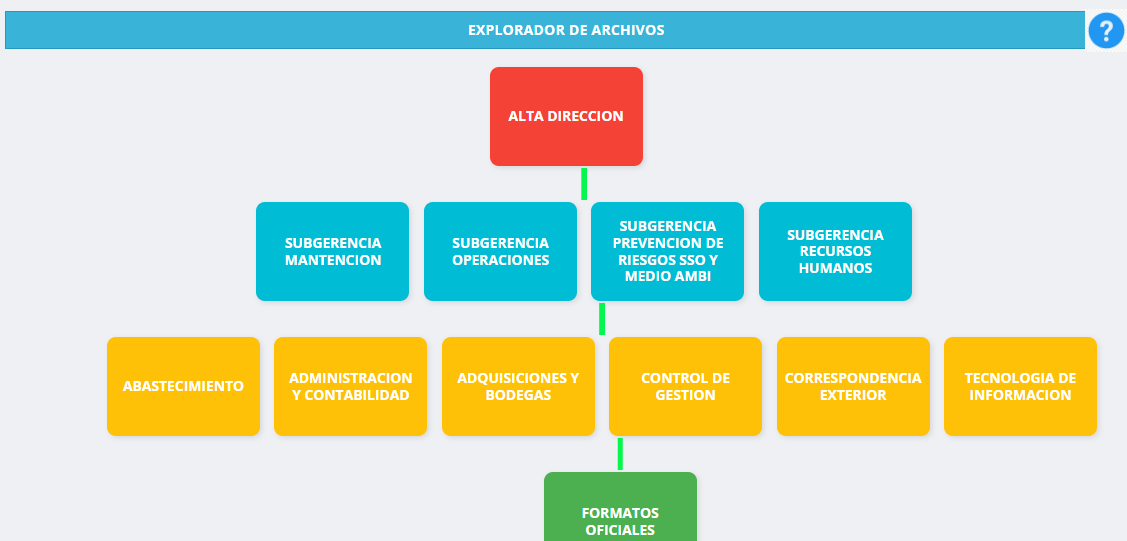
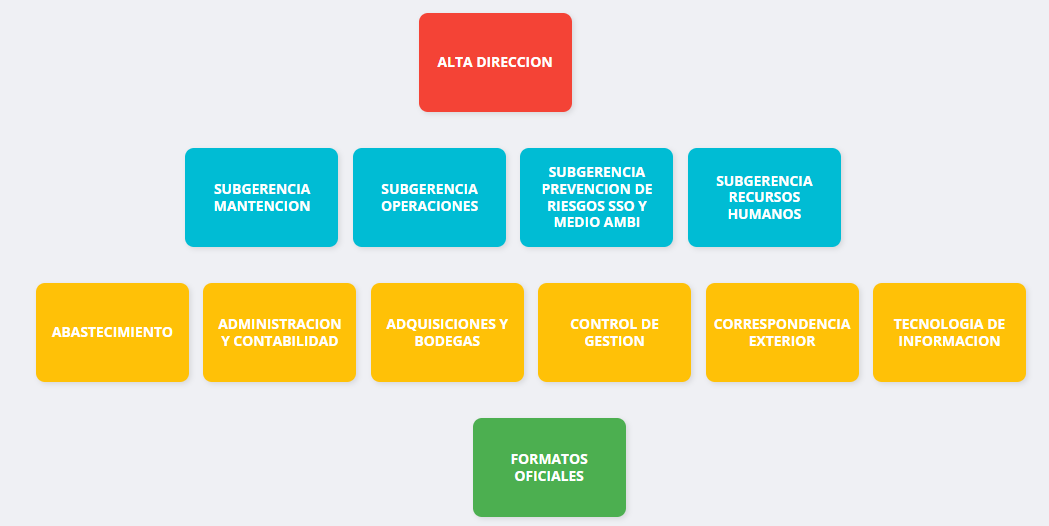
se agregaron datos al modal ayuda

diff --git a/script/infografia.js b/script/infografia.js
@@ -1,46 +1,46 @@
+function abre_modal_ayuda() {
+  $("#ventana_de_ayuda").modal('show');
 
-function abre_modal_ayuda(){
-    $("#ventana_de_ayuda").modal('show');
+  pasoActual = 1;
+  document.getElementById("paso1").style.display = "block";
+  document.getElementById("paso2").style.display = "none";
+  document.getElementById("paso3").style.display = "none";
+
+  document.getElementById("btnSiguiente").style.display = "inline-block";
+  document.getElementById("btnAnterior").style.display = "none";
 }
 
-//siguiente y atras en el modal
 let pasoActual = 1;
 const totalPasos = 3;
 
 function cambiarPaso(direccion) {
-    // Oculta el paso actual
-    document.getElementById(`paso${pasoActual}`).style.display = "none";
+  document.getElementById(`paso${pasoActual}`).style.display = "none";
 
-    // Cambia el paso
-    pasoActual += direccion;
+  // Cambia el paso
+  pasoActual += direccion;
 
-    // Muestra el nuevo paso
-    document.getElementById(`paso${pasoActual}`).style.display = "block";
+  // Asegura que esté dentro del rango válido
+  if (pasoActual < 1) pasoActual = 1;
+  if (pasoActual > totalPasos) pasoActual = totalPasos;
 
-    // Actualiza botones
-    const btnAnterior = document.getElementById("btnAnterior");
-    const btnSiguiente = document.getElementById("btnSiguiente");
+  document.getElementById(`paso${pasoActual}`).style.display = "block";
 
-    btnAnterior.disabled = pasoActual === 1;
+  // Actualiza botones
+  const btnAnterior = document.getElementById("btnAnterior");
+  const btnSiguiente = document.getElementById("btnSiguiente");
 
-    if (pasoActual === totalPasos) {
-        btnSiguiente.style.display = "none";
+  // Mostrar u ocultar botón "Atrás"
+  if (pasoActual === 1) {
+    btnAnterior.style.display = "none";
+  } else {
+    btnAnterior.style.display = "inline-block";
+  }
 
-        // ⏱ Cerrar el modal automáticamente después de 10 segundos
-        setTimeout(() => {
-        $('#ventana_de_ayuda').modal('hide');
-        pasoActual = 1; // Reinicia si vuelven a abrir el modal
-
-        // mostrar solo el primer paso al reabrir
-        document.getElementById("paso2").style.display = "none";
-        document.getElementById("paso3").style.display = "none";
-        document.getElementById("paso1").style.display = "block";
-        btnSiguiente.style.display = "inline-block";
-        btnAnterior.disabled = true;
-
-        }, 10000); // 10000 milisegundos = 5 segundos
-    } else {
-        btnSiguiente.style.display = "inline-block";
-        btnSiguiente.textContent = "Siguiente";
-    }
+  // Mostrar u ocultar botón "Siguiente"
+  if (pasoActual === totalPasos) {
+    btnSiguiente.style.display = "none";
+  } else {
+    btnSiguiente.style.display = "inline-block";
+    btnSiguiente.textContent = "Siguiente";
+  }
 }

diff --git a/forms/cascada.php b/forms/cascada.php
@@ -109,7 +109,7 @@
         transition: transform 0.2s ease;
       }
       .boton-caja:hover {
-        transform: scale(1.05);
+        transform: scale(1.3);
       }
 
       /* Colores fijos por rol */
@@ -117,21 +117,6 @@
       .clr-subgerencia { background-color: #00BCD4; } 
       .clr-depto       { background-color: #FFC107; } 
       .clr-formatos    { background-color: #4CAF50; } 
-
-      
-      /* Línea vertical desde cada botón hacia la línea horizontal */
-      .nivel:not(.nivel-1) .boton-caja::before {
-        content: "";
-        position: absolute;
-        top: -38px;
-        left: 50%;
-        transform: translateX(-50%);
-        width: 5px;
-        height: 36px;
-        background-color: #03f74cff;
-        z-index: 0;
-      }
-
    
       .nombre-elemento {
         flex: 1;
@@ -176,7 +161,7 @@
 
   <!-- VENTANA NUEVA AYUDA-->
   <div id="ventana_de_ayuda" class="modal fade">
-    <div class="modal-dialog" style="width: 700px; max-width: 100%;">
+    <div class="modal-dialog" style="width: 800px; max-width: 100%;">
       <div class="modal-content" style="border-radius: 10px;">
       
         <div class="modal-header" style="background-color: #39b3d7; color: white;">
@@ -188,7 +173,7 @@
 
           <!-- Paso 1 -->
           <div id="paso1">
-            <p><b>Paso 1: Identifica la caja que necesitas</b></p>
+            <p><b>Paso 1: Identifica la área que necesitas</b></p>
             <p>Cada caja de color representa una carpeta o área de trabajo dentro de la organización:</p>
             <ul>
               <li>🔴 Alta Dirección (nivel superior)</li>
@@ -202,22 +187,24 @@
 
           <!-- Paso 2 -->
           <div id="paso2" style="display: none;">
-            <p><b>Paso 2: Generación del código</b></p>
+            <p><b>Paso 2: Se abre una ventana emergente</b></p>
+            <p>Al hacer clic en una caja, se abre una ventana emergente que muestra el contenido de esa carpeta:</p>
             <ul>
-              <li>El sistema asigna un código automáticamente.</li>
-              <li>Verifica que sea correcto antes de guardar.</li>
+              <li>Verás una estructura tipo árbol o cascada.</li>
+              <li>Las carpetas se organizan jerárquicamente, de arriba hacia abajo.</li>
+              <li>Cada carpeta puede contener subcarpetas o archivos.</li>
             </ul>
             <img src="IMAGENES/explorador_archivos_2.png" style="width: 100%; height: auto;">
           </div>
 
           <!-- Paso 3 -->
           <div id="paso3" style="display: none;">
-            <p><b>Paso 3: Guardar y finalizar</b></p>
+            <p><b>Paso 3: Navega por la jerarquía</b></p>
             <ul>
-              <li>Adjunta el documento y presiona "Guardar".</li>
-              <li>Revisa en la lista que tu archivo esté publicado.</li>
+              <li>Haz clic en una carpeta para expandir su contenido.</li>
+              <li>Puedes ver manuales, procedimientos, formatos oficiales, etc.</li>
             </ul>
-            <img src="IMAGENES/explorador_archivos_3" style="width: 100%; height: auto;">
+            <img src="IMAGENES/explorador_archivos_3.png" style="width: 100%; height: auto;">
           </div>
 
         </div>
@@ -227,7 +214,6 @@
           <button type="button" class="btn btn-default" id="btnAnterior" onclick="cambiarPaso(-1)">Anterior</button>
           <button type="button" class="btn btn-primary" id="btnSiguiente" onclick="cambiarPaso(1)">Siguiente</button>
           </div>
-
 
       </div>
     </div>
